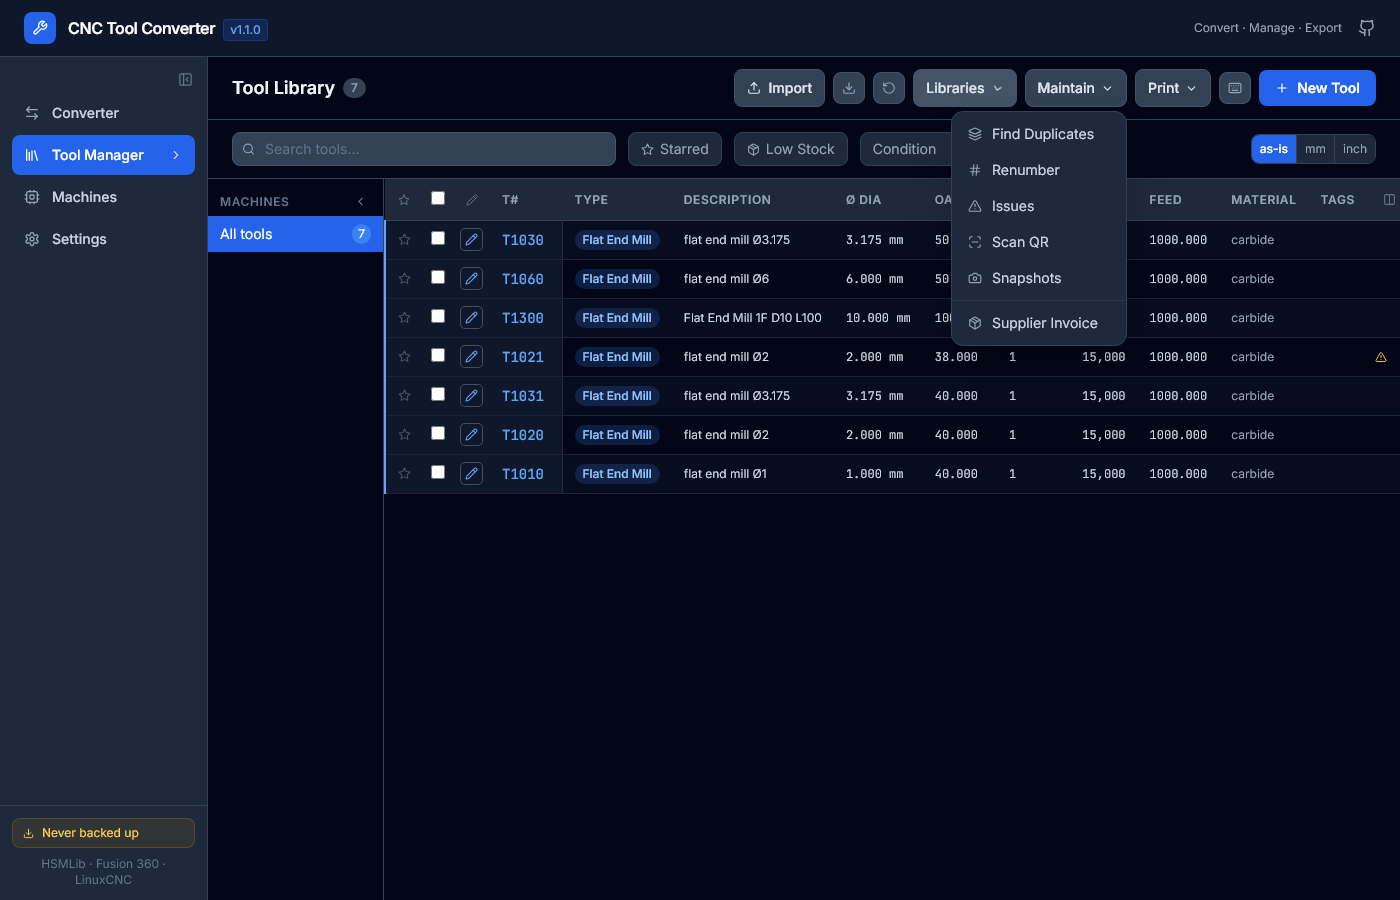
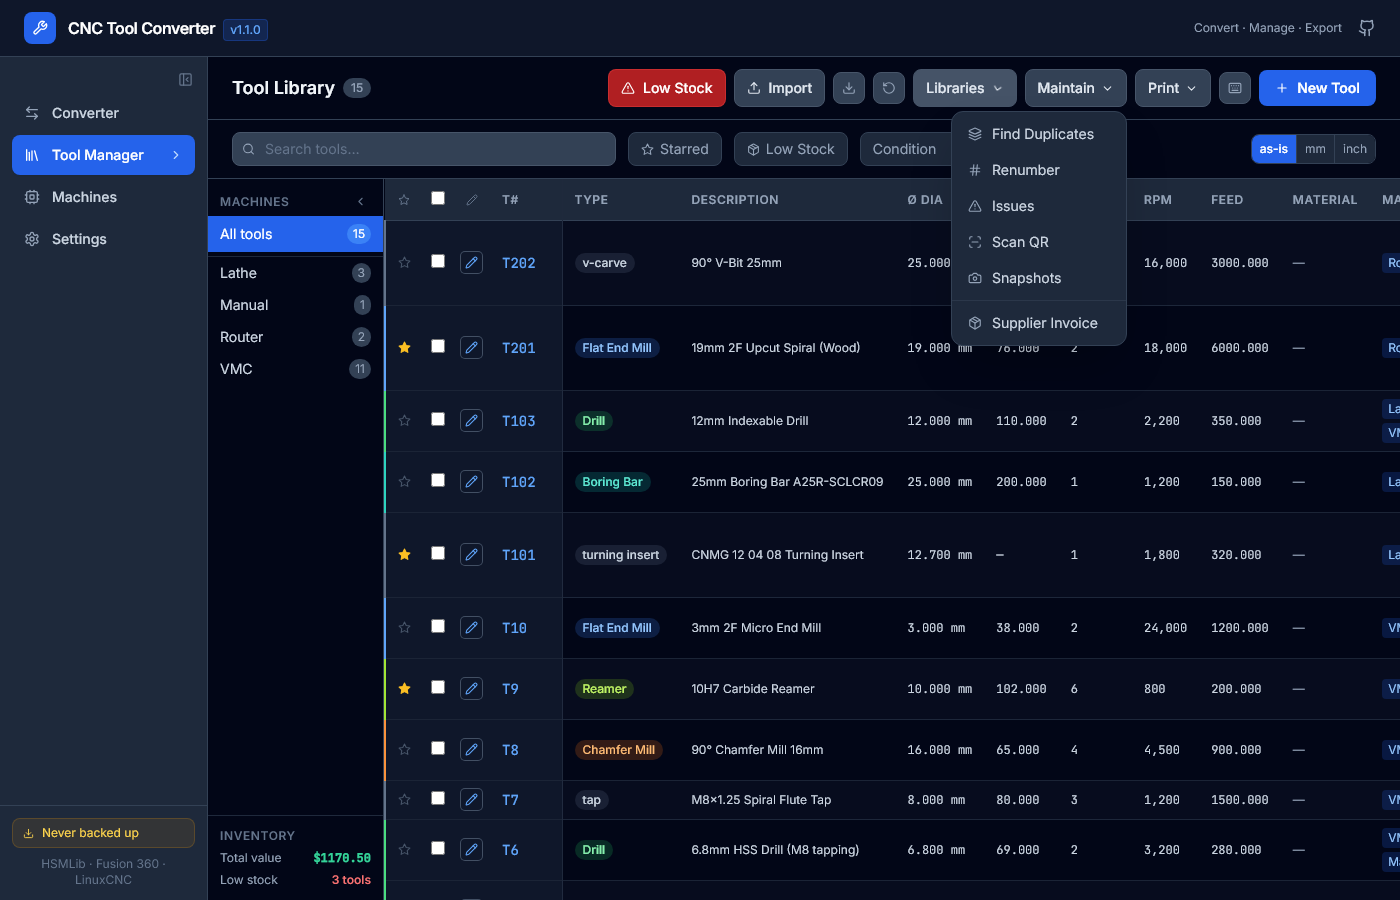
docs: regenerate screenshots with populated library, fix doc inconsistencies
- Add e2e/fixtures/sample-library.json — 15 tools across VMC/Lathe/Router
  machine groups, plus materials and holders, for realistic screenshots
- Rewrite e2e/screenshots.spec.ts to seed the library in every test using
  the hidden restore input; open tool editor via pencil button per row
- Regenerate all wiki screenshots with a populated library (tool editor,
  import panel, dropdowns all show real data)
- README: add missing Backup JSON v2 row to supported formats table (10th format)
- wiki/Snapshots-and-Backup: fix snapshot limit 20 → 10 (matches MAX_AUTO_SNAPSHOTS)

diff --git a/e2e/screenshots.spec.ts b/e2e/screenshots.spec.ts
@@ -5,10 +5,11 @@
 import { test } from '@playwright/test';
 import path from 'path';
 
-const OUT = path.resolve('wiki/screenshots');
-const EXAMPLE_HSMLIB = path.resolve('Example Files/Tool Libs/InventorCAM/100 1F Wood.hsmlib');
+const OUT     = path.resolve('wiki/screenshots');
+const FIXTURE = path.resolve('e2e/fixtures/sample-library.json');
+const HSMLIB  = path.resolve('Example Files/Tool Libs/InventorCAM/100 1F Wood.hsmlib');
 
-// Suppress the "What's New" modal
+// Suppress the "What's New" modal and first-run nudges
 const SUPPRESS = () => {
   localStorage.setItem('cnc-tool-converter:lastSeenVersion', '1.1.0');
 };
@@ -21,23 +22,16 @@ async function goToLibrary(page: any) {
   await page.getByRole('button', { name: /New Tool/i }).waitFor({ state: 'visible' });
 }
 
-/** Import a sample hsmlib file so the toolbar shows Maintain and Print */
+/**
+ * Restore the sample library fixture into IndexedDB via the hidden
+ * restore input — no UI dialog, no confirmation required.
+ */
 async function seedLibrary(page: any) {
-  await page.getByRole('button', { name: /^Import$/i }).click();
-  await page.locator('text=Drop files').first().waitFor({ state: 'visible' });
-  // Target the hidden file input by aria-label
-  const fileInput = page.locator('[aria-label="Select files"]').last();
-  await fileInput.setInputFiles(EXAMPLE_HSMLIB);
-  // Wait for tools to appear and click the import button
-  const importBtn = page.getByRole('button', { name: /^Add \d+/i });
-  await importBtn.waitFor({ state: 'visible', timeout: 10000 });
-  await importBtn.click();
-  // Wait for "Import complete" then close the panel
-  await page.locator('text=Import complete').waitFor({ state: 'visible', timeout: 10000 });
-  await page.getByRole('button', { name: /^Close$/i }).last().click();
-  await page.locator('.fixed.right-0.top-0.h-full').waitFor({ state: 'hidden', timeout: 5000 }).catch(() => {});
-  await page.getByRole('button', { name: /Maintain/i }).waitFor({ state: 'visible', timeout: 5000 });
+  await page.locator('[aria-label="Restore from JSON backup"]').setInputFiles(FIXTURE);
+  await page.getByRole('button', { name: /Maintain/i }).waitFor({ state: 'visible', timeout: 10_000 });
 }
+
+// ── Converter page ────────────────────────────────────────────────────────────
 
 test('converter page', async ({ page }) => {
   await page.addInitScript(SUPPRESS);
@@ -46,12 +40,13 @@ test('converter page', async ({ page }) => {
   await page.getByText(/Source Format/i).first().waitFor({ state: 'visible' });
   await page.screenshot({ path: `${OUT}/converter-page.png` });
 
-  // Pick a source and target format
   const selects = page.locator('select');
   await selects.nth(0).selectOption({ index: 2 }).catch(() => {});
   await selects.nth(1).selectOption({ index: 3 }).catch(() => {});
   await page.screenshot({ path: `${OUT}/converter-format-selected.png` });
 });
+
+// ── Tool Library page + toolbar dropdowns ─────────────────────────────────────
 
 test('tool library page + dropdowns', async ({ page }) => {
   await page.addInitScript(SUPPRESS);
@@ -65,7 +60,6 @@ test('tool library page + dropdowns', async ({ page }) => {
   await page.getByRole('button', { name: /Libraries/i }).click();
   await page.locator('text=Materials').first().waitFor({ state: 'visible' });
   await page.screenshot({ path: `${OUT}/libraries-dropdown.png` });
-  // Close by clicking the button again
   await page.getByRole('button', { name: /Libraries/i }).click();
   await page.locator('text=Materials').first().waitFor({ state: 'hidden' });
 
@@ -83,23 +77,35 @@ test('tool library page + dropdowns', async ({ page }) => {
   await page.getByRole('button', { name: /Print/i }).click();
 });
 
+// ── Import panel (with a file loaded so it shows parsed tools) ─────────────────
+
 test('import panel', async ({ page }) => {
   await page.addInitScript(SUPPRESS);
   await page.goto('/');
   await page.waitForLoadState('domcontentloaded');
   await goToLibrary(page);
+  await seedLibrary(page);
+
   await page.getByRole('button', { name: /^Import$/i }).click();
-  await page.locator('text=Drop').first().waitFor({ state: 'visible' });
+  await page.locator('text=Drop files').first().waitFor({ state: 'visible' });
+  // Load the hsmlib file so the panel shows parsed tools instead of empty drop zone
+  await page.locator('[aria-label="Select files"]').last().setInputFiles(HSMLIB);
+  await page.getByRole('button', { name: /^Add \d+|^Skip \d+/i }).first().waitFor({ state: 'visible', timeout: 8000 }).catch(() => {});
   await page.screenshot({ path: `${OUT}/import-panel.png` });
 });
+
+// ── Tool editor (open an existing tool, not New Tool) ─────────────────────────
 
 test('tool editor tabs', async ({ page }) => {
   await page.addInitScript(SUPPRESS);
   await page.goto('/');
   await page.waitForLoadState('domcontentloaded');
   await goToLibrary(page);
-  await page.getByRole('button', { name: /New Tool/i }).click();
-  await page.locator('text=Tool Number').first().waitFor({ state: 'visible' });
+  await seedLibrary(page);
+
+  // Click the pencil (Open full editor) button on the first row
+  await page.locator('tbody tr').first().getByTitle('Open full editor').click();
+  await page.locator('text=Tool number').first().waitFor({ state: 'visible' });
 
   await page.screenshot({ path: `${OUT}/tool-editor-library-tab.png` });
 
@@ -116,6 +122,8 @@ test('tool editor tabs', async ({ page }) => {
   await page.screenshot({ path: `${OUT}/tool-editor-crib.png` });
 });
 
+// ── Settings page ─────────────────────────────────────────────────────────────
+
 test('settings page', async ({ page }) => {
   await page.addInitScript(SUPPRESS);
   await page.goto('/');
@@ -124,7 +132,6 @@ test('settings page', async ({ page }) => {
   await page.locator('text=Theme').first().waitFor({ state: 'visible' });
   await page.screenshot({ path: `${OUT}/settings-page.png` });
 
-  // Scroll to bottom to show Remote Database section
   await page.evaluate(() => window.scrollTo(0, document.body.scrollHeight));
   await page.waitForTimeout(300);
   await page.screenshot({ path: `${OUT}/settings-remote-db.png` });

diff --git a/wiki/Snapshots-and-Backup.md b/wiki/Snapshots-and-Backup.md
@@ -14,7 +14,7 @@ Snapshots are point-in-time copies of your entire library stored inside the brow
 
 Enter an optional label (e.g. "Before big import" or "v3 machine group setup") and click **Save**. The snapshot captures all tools, materials, and holders at that instant.
 
-Up to **20 snapshots** are retained. When the limit is reached, the oldest snapshot is automatically removed.
+Up to **10 snapshots** are retained. When the limit is reached, the oldest snapshot is automatically removed.
 
 ### Viewing snapshots
 

diff --git a/README.md b/README.md
@@ -122,6 +122,7 @@ Add secrets to GitHub: `TAURI_SIGNING_PRIVATE_KEY`, `TAURI_SIGNING_PRIVATE_KEY_P
 | Generic CSV | ✅ | ✅ | `.csv` |
 | Excel | ✅ | ✅ | `.xlsx` |
 | RhinoCAM | ✅ | — | `.vkb` (binary) |
+| Backup JSON v2 | ✅ | ✅ | `.json` |
 
 ---
 
